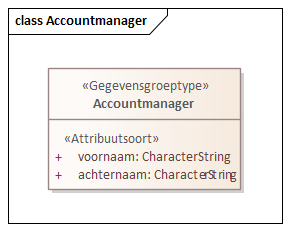
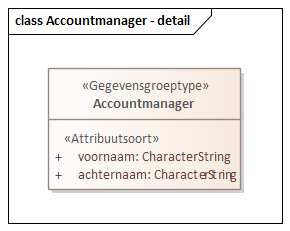
MIMCM-Bakstenenconceptueelmodel-1.0.0-2-20130318-20231004-105637

Changed region(s): [[0.4966, 0.0606, 0.6828, 0.1515], [0.7138, 0.0606, 0.7448, 0.0909], [0.6828, 0.0909, 0.7138, 0.1212]]

diff --git a/data/SAMPLE-cat.respec.full.html b/data/SAMPLE-cat.respec.full.html
@@ -1,7 +1,7 @@
 
 <!DOCTYPE HTML><section id="cat" class="normative">
    <h2>Gegevensdefinitie</h2>
-   <!--MIMCM-Bakstenenconceptueelmodel-1.0.0-2-20130318-20231004-105105 imvertor Nightly-build.10-->
+   <!--MIMCM-Bakstenenconceptueelmodel-1.0.0-2-20130318-20231004-105637 imvertor Nightly-build.10-->
    <section id="global_packages">
       <h3>Model   Bakstenen conceptueel model</h3>
       <section id="EAID_08513AA0_8A50_46c1_AD86_9B80D9A6AAE1">
@@ -2635,6 +2635,19 @@
          <section id="global_class_Contract_Accountmanager">
             <h5>Gegevensgroep   Accountmanager</h5>
             
+            <section id="EAID_3461FD3C_569C_42de_986E_D0665C7B8650">
+               <h6>   Accountmanager - detail</h6>
+               <div class="imageinfo ">
+                  <figure><img src="data/Images/EAID_3461FD3C_569C_42de_986E_D0665C7B8650.png" usemap="#imagemap-EAID_3461FD3C_569C_42de_986E_D0665C7B8650" alt="Diagram &#xA;                              Weergave van Accountmanager. Test voor één diacriet.&#xA;                              &#xA;                           "><figcaption>Accountmanager</figcaption>
+                  </figure><map name="imagemap-EAID_3461FD3C_569C_42de_986E_D0665C7B8650"><area shape="rect" alt="Accountmanager" coords="48,68,241,190" href="#global_class_Contract_Accountmanager"></map><p>
+                     
+                     <p>Weergave van Accountmanager. Test voor één diacriet.</p>
+                     
+                     <p></p>
+                     </p>
+               </div>
+            </section>
+            
             <table style="width: 100%;">
                <colgroup style="width: 30%;"></colgroup>
                <colgroup style="width: 70%;"></colgroup>
@@ -3262,7 +3275,7 @@
 </section>
 <section id="lis" class="normative">
    <h2>Inhoud van waardenlijsten</h2>
-   <!--MIMCM-Bakstenenconceptueelmodel-1.0.0-2-20130318-20231004-105105 imvertor Nightly-build.10-->
+   <!--MIMCM-Bakstenenconceptueelmodel-1.0.0-2-20130318-20231004-105637 imvertor Nightly-build.10-->
    <section>
       <h3>Referentielijst inhoud   </h3>
       <section id="detail_class_BaksteenProductie_Baksteentype">

diff --git a/data/SAMPLE-cat.respec.html b/data/SAMPLE-cat.respec.html
@@ -1,7 +1,7 @@
 
 <!DOCTYPE HTML><section id="cat" class="normative">
    <h2>Gegevensdefinitie</h2>
-   <!--MIMCM-Bakstenenconceptueelmodel-1.0.0-2-20130318-20231004-105105 imvertor Nightly-build.10-->
+   <!--MIMCM-Bakstenenconceptueelmodel-1.0.0-2-20130318-20231004-105637 imvertor Nightly-build.10-->
    <section id="global_packages">
       <h3>Model   Bakstenen conceptueel model</h3>
       <section id="EAID_08513AA0_8A50_46c1_AD86_9B80D9A6AAE1">
@@ -2635,6 +2635,19 @@
          <section id="global_class_Contract_Accountmanager">
             <h5>Gegevensgroep   Accountmanager</h5>
             
+            <section id="EAID_3461FD3C_569C_42de_986E_D0665C7B8650">
+               <h6>   Accountmanager - detail</h6>
+               <div class="imageinfo ">
+                  <figure><img src="data/Images/EAID_3461FD3C_569C_42de_986E_D0665C7B8650.png" usemap="#imagemap-EAID_3461FD3C_569C_42de_986E_D0665C7B8650" alt="Diagram &#xA;                              Weergave van Accountmanager. Test voor één diacriet.&#xA;                              &#xA;                           "><figcaption>Accountmanager</figcaption>
+                  </figure><map name="imagemap-EAID_3461FD3C_569C_42de_986E_D0665C7B8650"><area shape="rect" alt="Accountmanager" coords="48,68,241,190" href="#global_class_Contract_Accountmanager"></map><p>
+                     
+                     <p>Weergave van Accountmanager. Test voor één diacriet.</p>
+                     
+                     <p></p>
+                     </p>
+               </div>
+            </section>
+            
             <table style="width: 100%;">
                <colgroup style="width: 30%;"></colgroup>
                <colgroup style="width: 70%;"></colgroup>
@@ -3262,7 +3275,7 @@
 </section>
 <section id="lis" class="normative">
    <h2>Inhoud van waardenlijsten</h2>
-   <!--MIMCM-Bakstenenconceptueelmodel-1.0.0-2-20130318-20231004-105105 imvertor Nightly-build.10-->
+   <!--MIMCM-Bakstenenconceptueelmodel-1.0.0-2-20130318-20231004-105637 imvertor Nightly-build.10-->
    <section>
       <h3>Referentielijst inhoud   </h3>
       <section id="detail_class_BaksteenProductie_Baksteentype">
